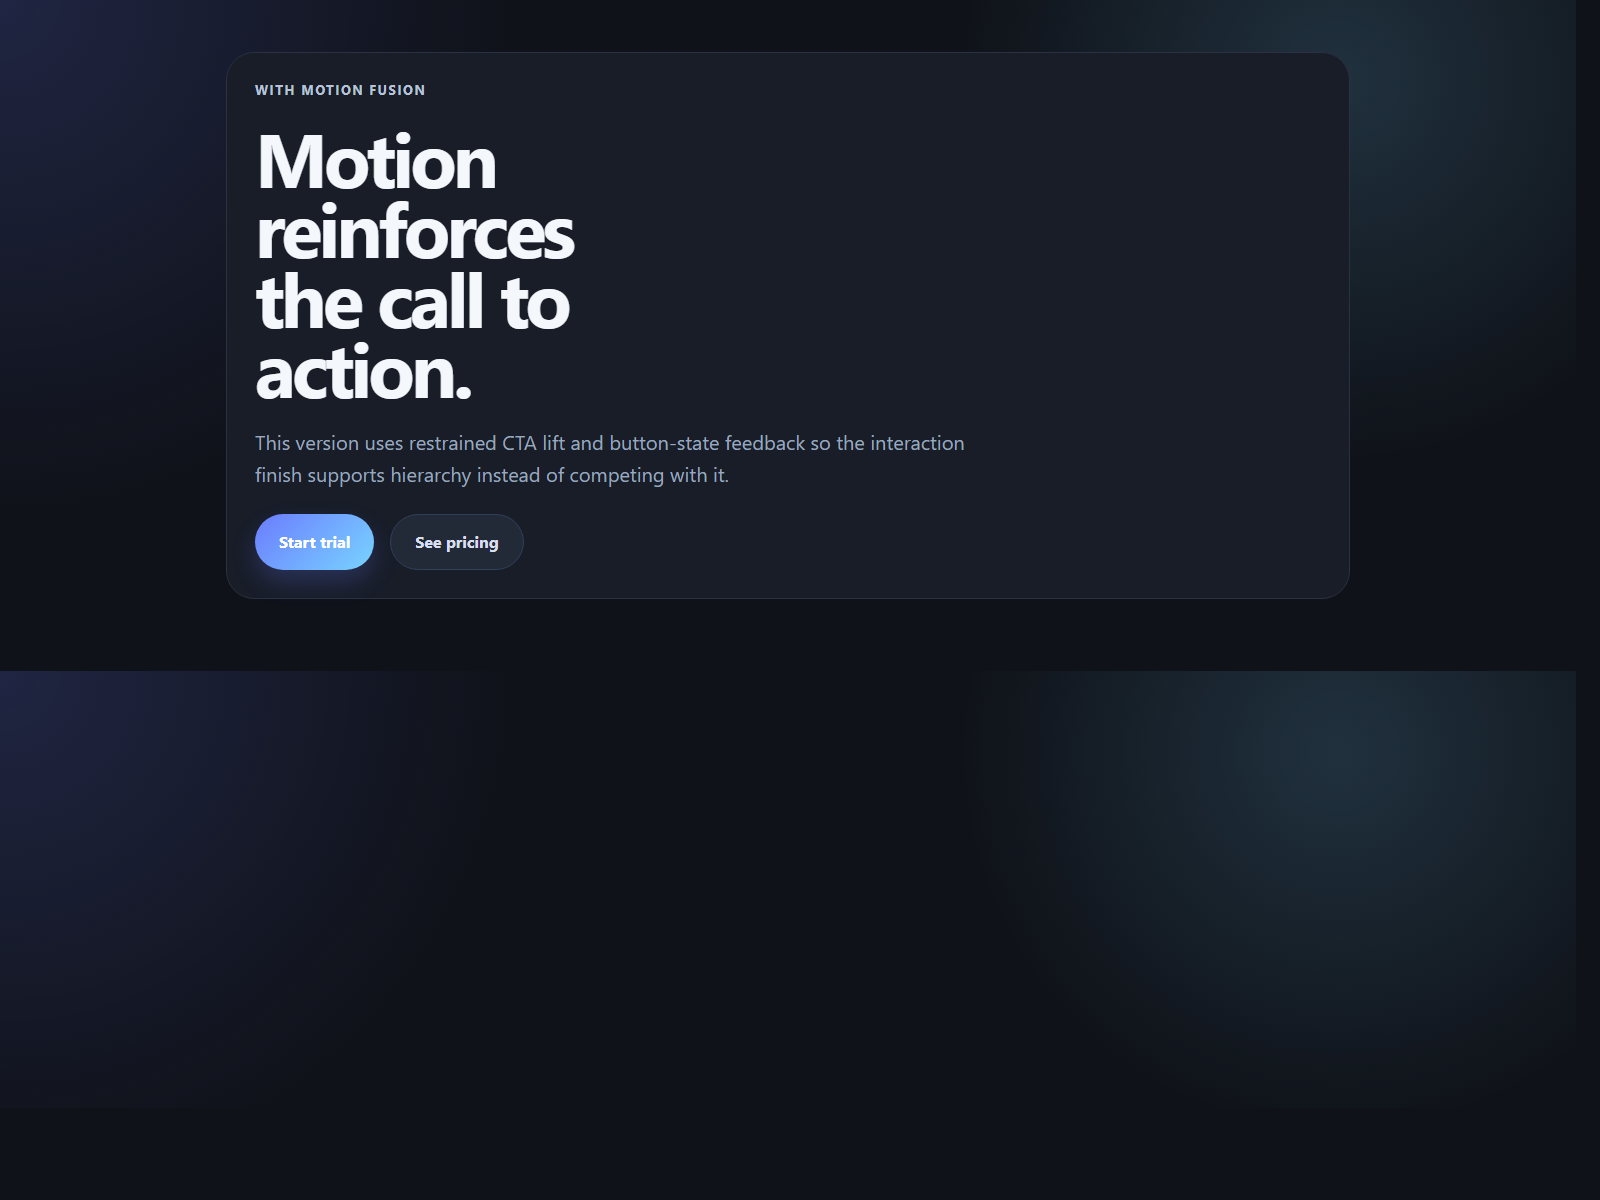
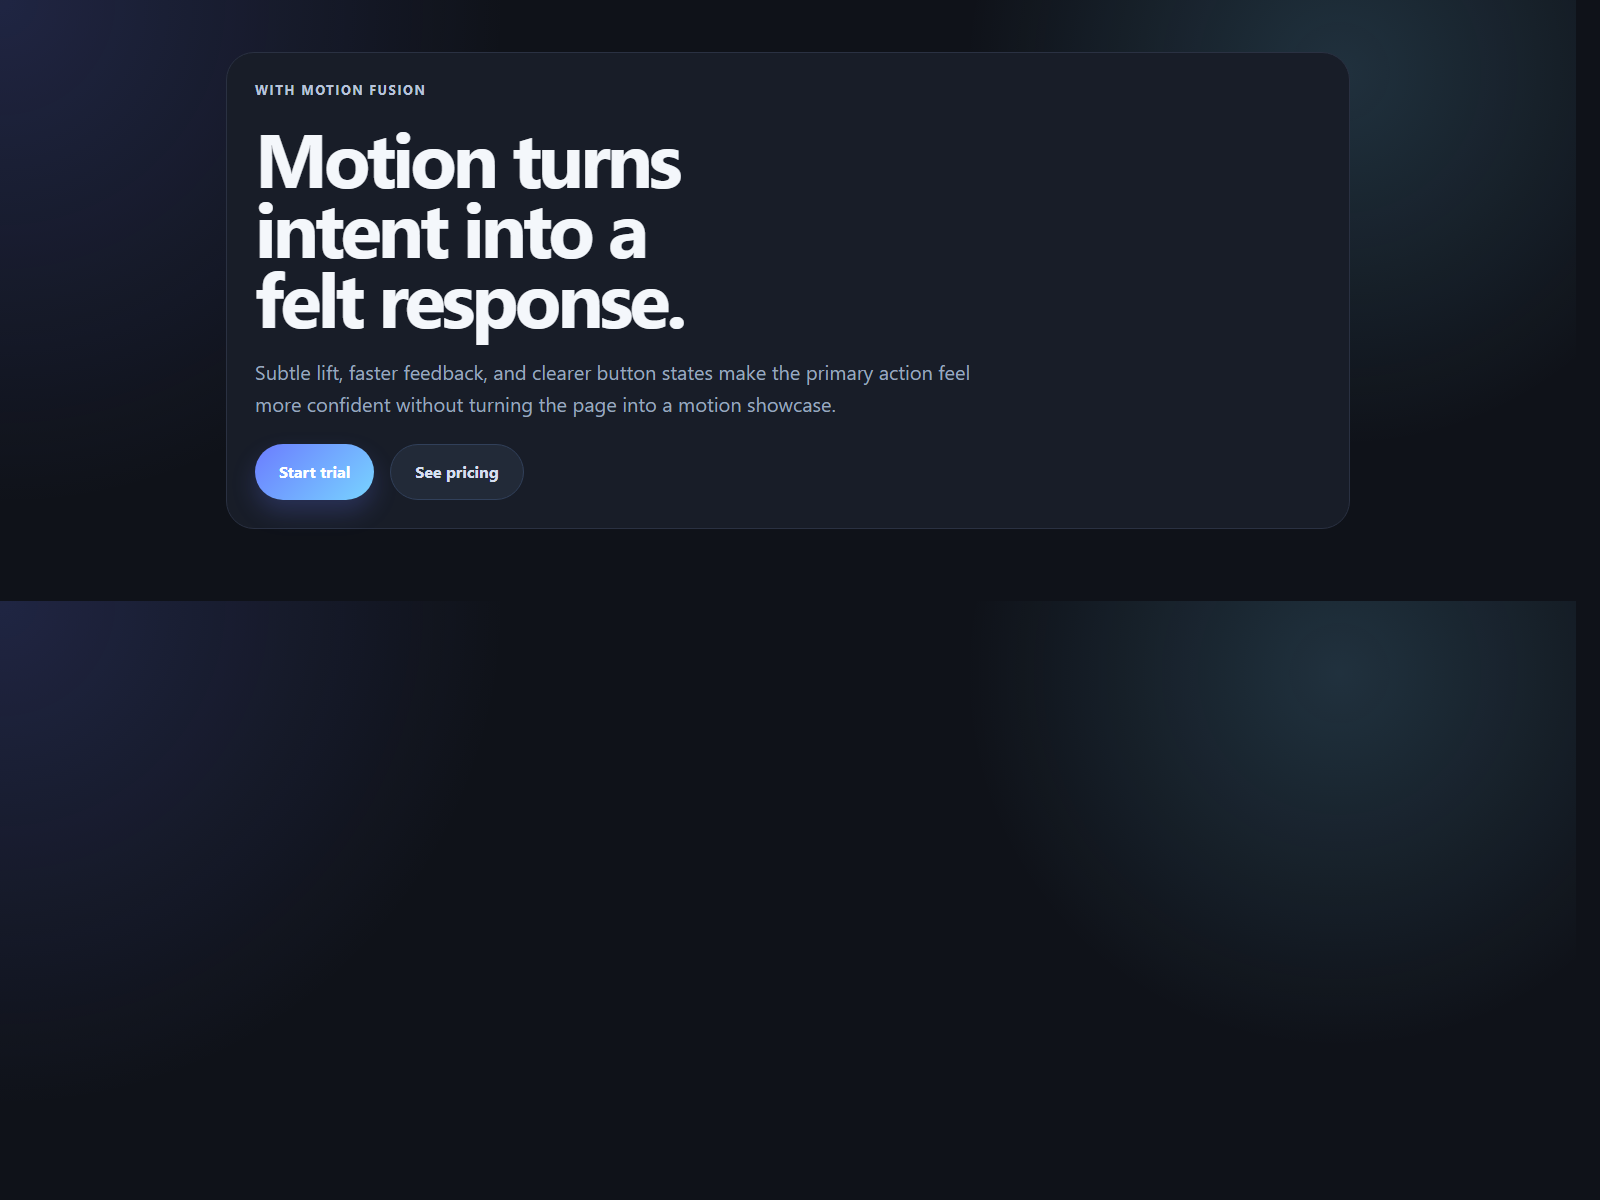
docs: refine motion fusion promo copy

Changed region(s): [[0.1562, 0.1233, 0.5938, 0.4933], [0.75, 0.4933, 0.9375, 0.5858], [0.0, 0.4933, 0.125, 0.5858]]

diff --git a/examples/motion-fusion/without-motion/index.html b/examples/motion-fusion/without-motion/index.html
@@ -83,8 +83,8 @@
   <div class="page">
     <section class="frame">
       <div class="eyebrow">Without motion fusion</div>
-      <h1>Static finish, solid hierarchy.</h1>
-      <p>This version keeps the structure and visual language clear, but it does not yet use interaction motion to reinforce the CTA or state feedback.</p>
+      <h1>Clear structure, but a flatter finish.</h1>
+      <p>The hierarchy reads correctly, yet the call to action still feels passive because the interface does not add interaction feedback where it matters most.</p>
       <div class="cta-row">
         <button class="button primary">Start trial</button>
         <button class="button secondary">See pricing</button>

diff --git a/examples/motion-fusion/with-motion/index.html b/examples/motion-fusion/with-motion/index.html
@@ -99,8 +99,8 @@
   <div class="page">
     <section class="frame">
       <div class="eyebrow">With motion fusion</div>
-      <h1>Motion reinforces the call to action.</h1>
-      <p>This version uses restrained CTA lift and button-state feedback so the interaction finish supports hierarchy instead of competing with it.</p>
+      <h1>Motion turns intent into a felt response.</h1>
+      <p>Subtle lift, faster feedback, and clearer button states make the primary action feel more confident without turning the page into a motion showcase.</p>
       <div class="cta-row">
         <button class="button primary">Start trial</button>
         <button class="button secondary">See pricing</button>
